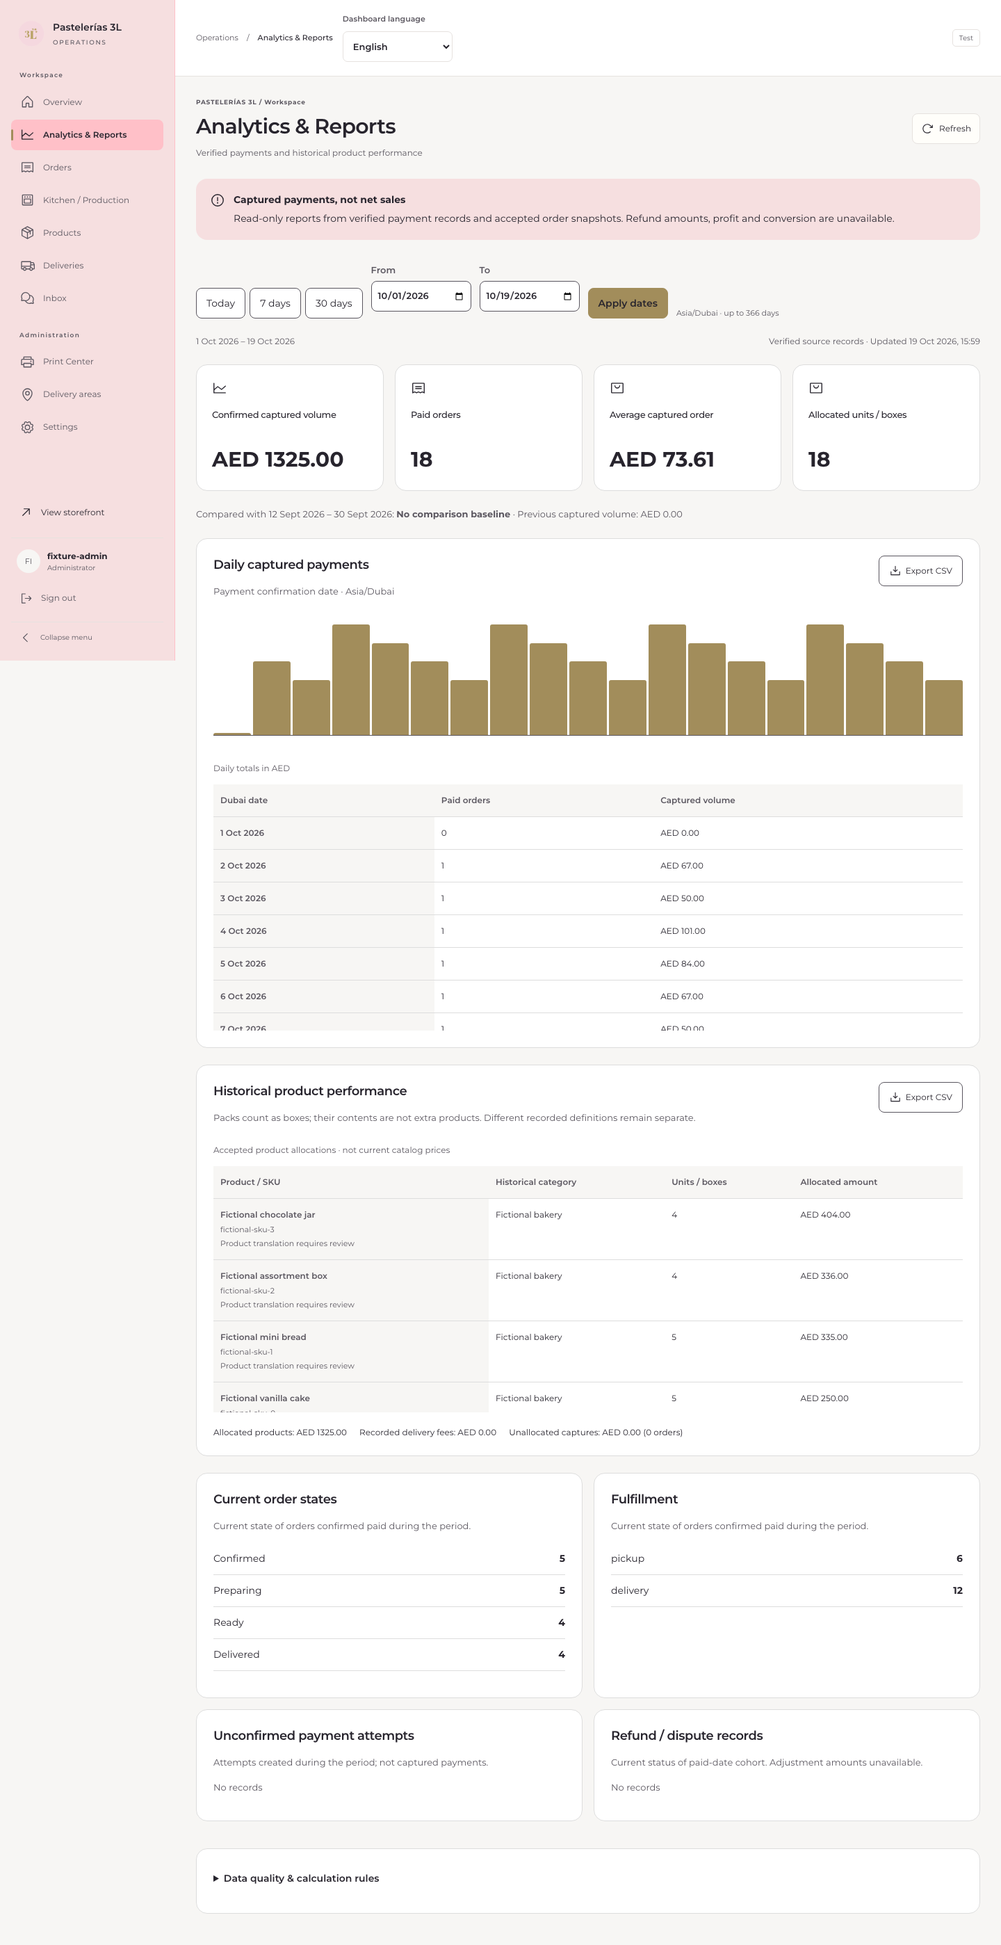
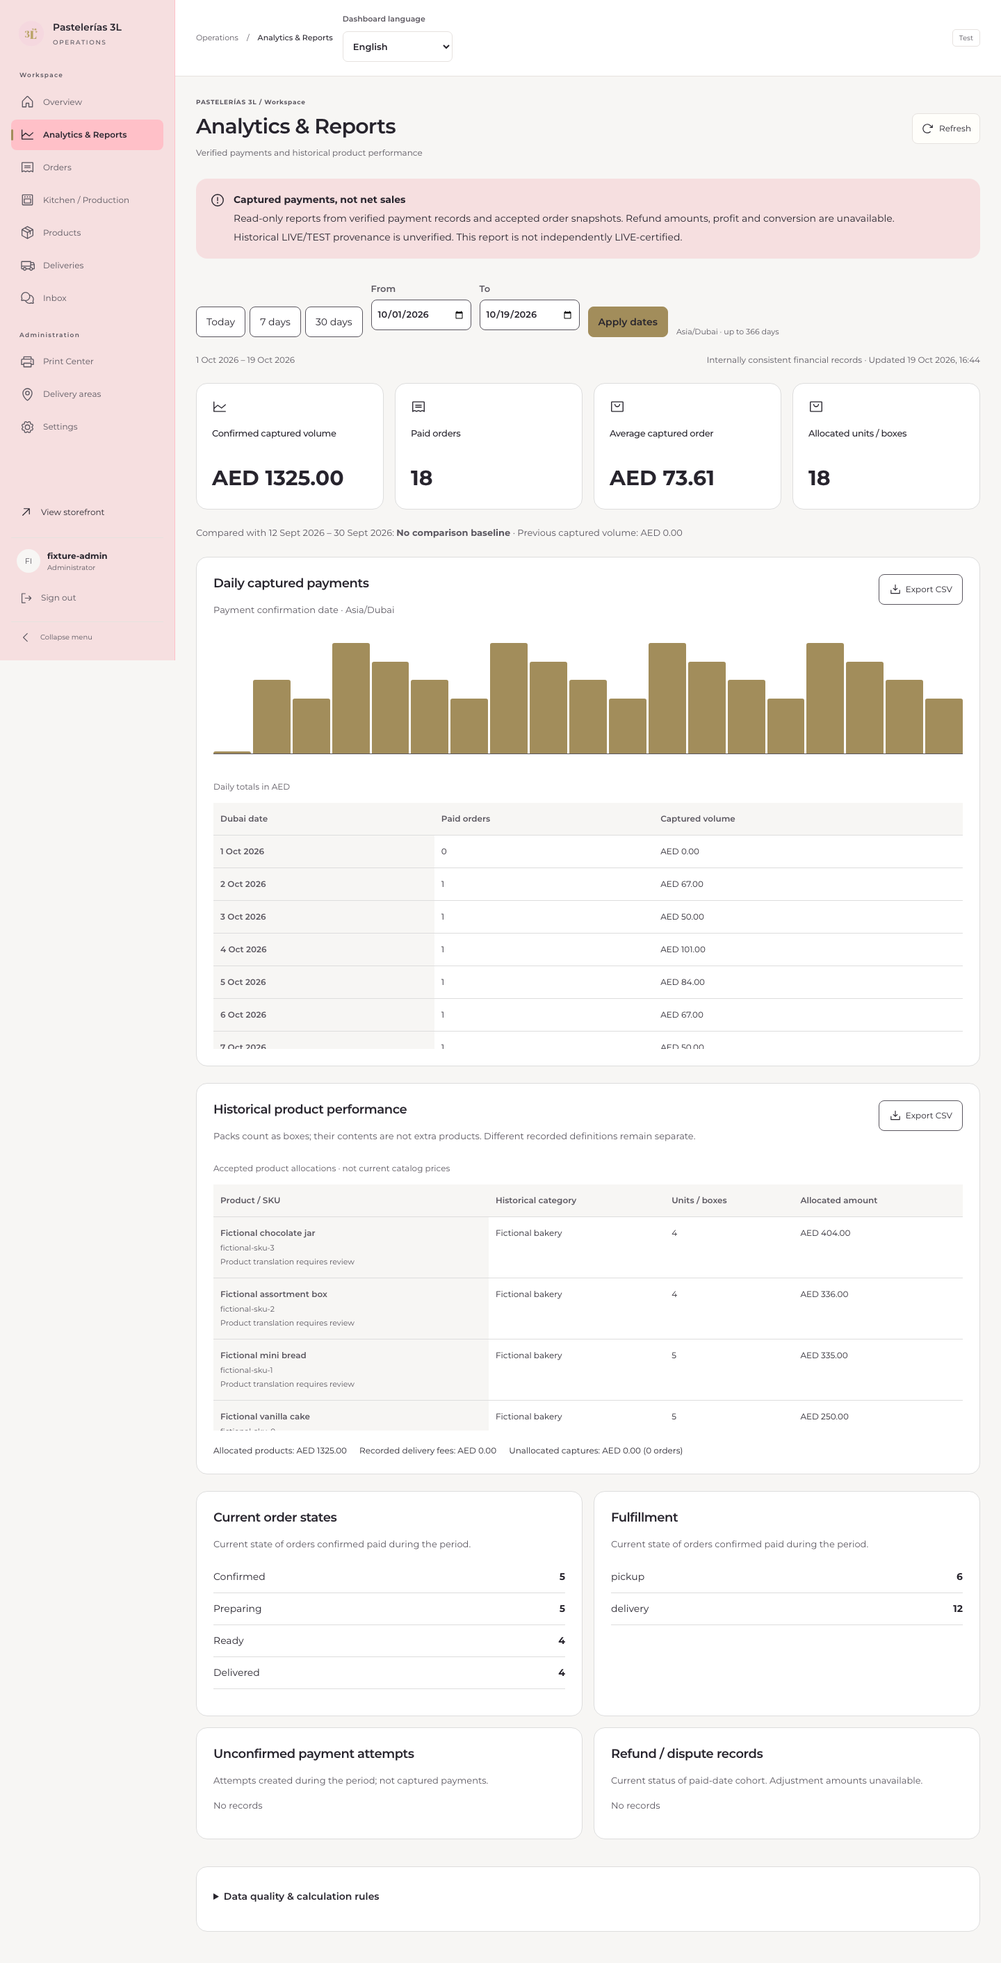
fix(analytics): separate financial consistency from unverified provenance

diff --git a/server/analytics/engine.ts b/server/analytics/engine.ts
@@ -144,10 +144,12 @@ export function calculateReport(
         100
       : null,
     issues: facts.issues,
+    qualityScope: "financial_consistency",
+    provenance: "unverified",
     quality:
       Object.values(facts.issues).some(Boolean) || current.unallocatedOrders > 0
         ? "partial"
-        : "reliable",
+        : "internally_consistent",
     limitations: [
       "Captured volume is not net sales, settlement or profit.",
       "Refund and dispute amounts, conversion, repeat customers and preparation duration are unavailable.",
@@ -168,7 +170,8 @@ export function reportCsv(
   };
   const quality = [
     report.quality,
-    "Gross confirmed captures, not net sales. Product allocations exclude inconsistent snapshots; see Analytics data-quality warnings.",
+    report.provenance,
+    "Gross confirmed captures, not net sales. Financial consistency does not independently certify LIVE origin; historical LIVE/TEST provenance is unverified. Product allocations exclude inconsistent snapshots.",
   ];
   const rows: unknown[][] =
     kind === "sales"
@@ -177,7 +180,8 @@ export function reportCsv(
             "Dubai date",
             "Paid orders",
             "Captured AED fils",
-            "Data quality",
+            "Financial consistency",
+            "LIVE/TEST provenance",
             "Scope note",
           ],
           ...report.current.daily.map((d) => [
@@ -194,7 +198,8 @@ export function reportCsv(
             "Historical category",
             "Purchased units / boxes",
             "Allocated AED fils",
-            "Data quality",
+            "Financial consistency",
+            "LIVE/TEST provenance",
             "Scope note",
           ],
           ...report.current.products.map((p) => [

diff --git a/tests/commerce/analytics.test.ts b/tests/commerce/analytics.test.ts
@@ -314,3 +314,36 @@ test("same SKU with changed historical definition remains separate; previous per
   assert.equal(r.changePercent, 100);
   assert.equal(r.previous.capturedFils, 5000);
 });
+
+test("internally consistent captures never imply independently certified LIVE provenance", () => {
+  const { s, payment } = fixture();
+  payment.url = "https://pay.paymennt.com/hosted/pay?checkoutKey=fictional";
+  const r = report(s);
+  assert.equal(r.current.capturedFils, 7000);
+  assert.equal(r.quality, "internally_consistent");
+  assert.equal(r.qualityScope, "financial_consistency");
+  assert.equal(r.provenance, "unverified");
+  assert.doesNotMatch(JSON.stringify(r), /"reliable"|live_certified/);
+});
+test("partial and empty financial reports retain explicit unverified provenance", () => {
+  const { s, order } = fixture();
+  delete order.catalogSnapshot;
+  const partial = report(s);
+  assert.equal(partial.quality, "partial");
+  assert.equal(partial.provenance, "unverified");
+  assert.equal(partial.current.unallocatedFils, 7000);
+  const empty = report(seed());
+  assert.equal(empty.quality, "internally_consistent");
+  assert.equal(empty.current.paidOrders, 0);
+  assert.equal(empty.provenance, "unverified");
+});
+test("both CSV exports distinguish financial consistency from historical provenance", () => {
+  const { s } = fixture();
+  for (const kind of ["sales", "products"] as const) {
+    const csv = reportCsv(report(s), kind);
+    assert.match(csv, /"Financial consistency","LIVE\/TEST provenance"/);
+    assert.match(csv, /"internally_consistent","unverified"/);
+    assert.match(csv, /not independently certify LIVE origin/);
+    assert.match(csv, /not net sales/);
+  }
+});

diff --git a/server/analytics/api.ts b/server/analytics/api.ts
@@ -78,6 +78,8 @@ export function serveAnalytics(
       range: report.range,
       daily: report.current.daily,
       quality: report.quality,
+      qualityScope: report.qualityScope,
+      provenance: report.provenance,
       issues: report.issues,
     });
   if (path.endsWith("/products"))
@@ -87,6 +89,8 @@ export function serveAnalytics(
       unallocatedOrders: report.current.unallocatedOrders,
       unallocatedFils: report.current.unallocatedFils,
       quality: report.quality,
+      qualityScope: report.qualityScope,
+      provenance: report.provenance,
     });
   if (path.endsWith("/operations"))
     return json({
@@ -95,6 +99,9 @@ export function serveAnalytics(
       fulfillment: report.current.fulfillment,
       attempts: report.current.attempts,
       adjustments: report.current.adjustments,
+      quality: report.quality,
+      qualityScope: report.qualityScope,
+      provenance: report.provenance,
     });
   return json(report);
 }

diff --git a/src/commerce/Analytics.tsx b/src/commerce/Analytics.tsx
@@ -116,6 +116,11 @@ export function AnalyticsWorkspace() {
               "Read-only reports from verified payment records and accepted order snapshots. Refund amounts, profit and conversion are unavailable.",
             )}
           </p>
+          <p>
+            {t(
+              "Historical LIVE/TEST provenance is unverified. This report is not independently LIVE-certified.",
+            )}
+          </p>
         </div>
       </div>
       <form
@@ -187,7 +192,7 @@ export function AnalyticsWorkspace() {
               {t(
                 report.quality === "partial"
                   ? "Partial data · review warnings"
-                  : "Verified source records",
+                  : "Internally consistent financial records",
               )}{" "}
               · {t("Updated")} {formatDate(report.generatedAt)}
             </span>

diff --git a/tests/commerce/analytics-http.test.ts b/tests/commerce/analytics-http.test.ts
@@ -77,6 +77,15 @@ test("real SQLite/API: auth, RBAC, aggregate privacy, bounded dates, CSV parity 
           assert.equal(res.headers.get("cache-control"), "no-store");
           if (allowed) {
             const text = await res.text();
+            if (p !== "session" && !p.startsWith("export")) {
+              const body = JSON.parse(text);
+              assert.equal(body.qualityScope, "financial_consistency");
+              assert.equal(body.provenance, "unverified");
+              assert.ok(
+                ["internally_consistent", "partial"].includes(body.quality),
+              );
+            }
+
             assert.doesNotMatch(
               text,
               /PRIVATE_CUSTOMER|private-fixture|customerDetails|fictional-checkout|providerReference|conversationId|payment-fictional/,

diff --git a/tests/analytics-e2e/analytics.spec.ts b/tests/analytics-e2e/analytics.spec.ts
@@ -68,6 +68,22 @@ for (const width of [320, 375, 390, 430, 768, 1440])
       await expect(
         page.locator(".an-kpis article").nth(1).locator("strong"),
       ).toHaveText("18");
+      await expect(
+        page.getByText(tr("Internally consistent financial records"), {
+          exact: false,
+        }),
+      ).toBeVisible();
+      await expect(
+        page.getByText(
+          tr(
+            "Historical LIVE/TEST provenance is unverified. This report is not independently LIVE-certified.",
+          ),
+          { exact: true },
+        ),
+      ).toBeVisible();
+      await expect(
+        page.getByText("Verified source records", { exact: true }),
+      ).toHaveCount(0);
       await expect(page.locator(".ops-shell")).toHaveAttribute(
         "lang",
         language,

diff --git a/server/analytics/contract.ts b/server/analytics/contract.ts
@@ -61,6 +61,10 @@ export type AnalyticsReport = {
   previous: PeriodReport;
   changePercent: number | null;
   issues: Record<string, number>;
-  quality: "reliable" | "partial";
+  /** Financial consistency only; never evidence of a payment's LIVE origin. */
+  qualityScope: "financial_consistency";
+  quality: "internally_consistent" | "partial";
+  /** The current historical model stores no explicit environment provenance. */
+  provenance: "unverified";
   limitations: string[];
 };

diff --git a/docs/analytics/production-reconciliation-plan.md b/docs/analytics/production-reconciliation-plan.md
@@ -1,0 +1,45 @@
+# Final review gate — Production reconciliation plan (NOT EXECUTED)
+
+No Production data, API, Railway environment, database, backup or provider has been accessed for this review. Founder authorization is still required for this procedure. Development readiness does not certify historical LIVE origin.
+
+## Definitions and acceptance boundary
+
+`qualityScope=financial_consistency` describes internal record completeness and reconciled arithmetic only. `quality=internally_consistent` means no source issues were detected by this engine; `partial` flags exclusions, fallback timestamps, unknown adjustments or allocation issues. Neither value independently certifies a capture as LIVE. `provenance=unverified` applies to every report from this historical model, including empty/otherwise consistent reports. Paymennt provider names, LIVE-looking URLs, reconciliation timestamps and the current runtime profile do not establish independent historical environment provenance. Mock/known TEST records remain excluded. CSV and visible UI carry both dimensions.
+
+## Authorization and input control
+
+1. Obtain separate founder authorization for a read-only Production reconciliation, identifying the exact date range, authorized operator and private result location. No provider reconciliation calls, status changes, outbound notifications, role changes, catalog publication, configuration or deployment.
+2. Record actual deployed revision from Railway deployment metadata, reporting-engine SHA and report schema, database identity/profile and published catalog revision as context only. Do not use the catalog to reconstruct history. Verify the approved reporting code is the code being compared; an undeployed local candidate must be labeled an isolated rehearsal.
+3. Choose a consistent input: preferably an existing, verified backup already under private owner custody, opened read-only. If none is available, request separate authorization for the established consistent-backup operation; do not improvise copying a live SQLite/WAL file. A direct audit alternative is an authorized SQLite read-only connection with `query_only=ON` and a read transaction that reads the serialized document once. Avoid `new Store(...)` on the live DB: its constructor initializes/migrates data.
+4. Run integrity_check on the authorized read-only source. Capture SHA-256 of the private snapshot/document, audit timestamp and source fingerprint; never publish the raw state, PII, checkout URLs or transaction IDs. Use one immutable input for independent calculations and the candidate engine. The live dashboard and an export generated later are not an identical point-in-time source if new payments arrive.
+
+## Independent ledger comparison
+
+The reviewer independently reads accepted orders and payment records from that fixed input, without calling the report's aggregation functions for the reference calculation. Retain identifiers privately only to investigate discrepancies. Public review evidence contains aggregated counts/fils only.
+
+- Collapse byte-equivalent duplicate payment IDs; quarantine conflicting IDs, duplicate order IDs, reused settled provider references and multiple settled attempts per order. Confirm one settled attempt plus unpaid retries counts one paid order.
+- Partition records into mutually exclusive primary dispositions using the adapter's documented filter order: known mock/TEST/unknown provider; missing/ambiguous association; non-settled attempt; missing verification/invalid AED amount; missing payment date; duplicate/reused settled capture; outside requested Dubai period; included and allocated; included and unallocated. Retain secondary reasons separately. Engine issue counters can overlap and are source-wide: their sum is NOT a unique excluded-payment count.
+- For each included capture verify Paymennt identity/reference, accepted amount/currency, recorded reconciliation evidence and first recorded paid timestamp. Payment status paid/refunded/partially_refunded/chargeback permits original gross capture only. No refund amount, settlement, net-sales or profit inference. Missing provenance remains unverified even when every amount matches.
+- Use Payment.paidAt, or the stored Order.paidAt fallback with warning. Do not substitute createdAt, updatedAt, delivery date or today's date. Explicitly account for missing dates outside period attribution. Test inclusive Dubai midnight boundaries and the immediately preceding equal-length period.
+- Independently validate each accepted financial snapshot: SKU uniqueness, quantity, base price and accepted premium price snapshot; subtotal = sum accepted line quantity × unit price; total = subtotal + accepted delivery fee = payment amount. Preserve distinct compositions and prices. Preparation components do not add sold units; purchased packs count as boxes. Tricolor colors/components are preparation details, not extra sales rows.
+- Missing/inconsistent snapshots retain the confirmed capture in gross totals but contribute to unallocated count/fils, never today's catalog prices. Unconfirmed/missing-proof records never inflate gross capture. Report excluded counts and safely stored declared amounts separately (not revenue); invalid amounts remain unquantified. Do not assign unknown-date exclusions to a guessed period.
+
+## Required reconciliation equations / evidence
+
+For selected and prior periods, compare exact integer fils and distinct identities, with ZERO unexplained difference:
+
+- Gross captured fils = sum unique eligible capture amounts.
+- Paid order count = distinct eligible order identities (not attempt count).
+- Gross captured fils = allocated product fils + accepted delivery-fee fils + unallocated capture fils.
+- Sum daily paid counts/amounts = period paid count/amount; sum SKU allocated amounts = product allocated total.
+- Allocated units = sum purchased line quantities; pack components never contribute additional units.
+- Average = round(gross captured fils / eligible paid orders), null if no orders. Zero comparison denominator remains unavailable.
+- CSV date rows/product allocations match the same fixed-input report and filter, including financial-consistency and unverified-provenance columns.
+
+Record input fingerprint, engine SHA, range/timezone, included/excluded/unallocated counts and fils, reason matrix, missing timestamp counts, refund/dispute counts with unavailable amounts, classification/translation gaps, and before/after historical-state fingerprints. The procedure performs no write; an unexpected changed source fingerprint requires a new fixed-input comparison, never a historical correction.
+
+## Stop / approval gates
+
+STOP on integrity failure, inconsistent input identity, unexpected writes/provider calls, unaccounted duplicates, arithmetic difference, raw customer data exposure or use of mutable catalog prices. Excluded and unallocated records must be explicitly reviewed; do not call a partial total complete revenue. Do not claim independent LIVE certification without a separately approved authoritative provenance source. Founder decides whether the disclosed unknown historical provenance is acceptable for operational use; that decision does not turn unknown provenance into verified LIVE.
+
+Remaining release gates: founder code/wording approval; explicit read-only reconciliation authorization and successful aggregate comparison; native EN/TL operational-language review; acceptance of exclusions/unallocated records and unavailable metrics; separate merge and deployment authorization with established backup/rollback gates. No payment/status change or commercial publication is part of any analytics reconciliation.

diff --git a/docs/analytics/README.md b/docs/analytics/README.md
@@ -22,7 +22,7 @@ These are entirely fictional fixtures on a local TEST server. They do not repres
 ## Local QA
 
 - `npm run typecheck`, `npm run lint`, `npm run build`: pass. Existing Vite bundle-size and pending business-information notices remain; no new dependencies.
-- `npm test`: **681/681** commerce/domain/HTTP/integration tests pass, including 14 new analytics tests. Existing catalog, premium-pack, Tricolor, immutable order and notification regressions remain in the suite.
+- `npm test`: **684/684** commerce/domain/HTTP/integration tests pass, including 17 analytics tests. Existing catalog, premium-pack, Tricolor, immutable order and notification regressions remain in the suite.
 - Browser login runs through ephemeral localhost TLS, preserving Production `Secure` cookie policy. Initial Linux WebKit CI exposed an HTTP-only fixture mismatch; the fixture now uses HTTPS, without weakening application security or tests.
 - Analytics unit/HTTP tests: accepted historical prices, fees, multiple lines, boxes vs components, premium/Tricolor preparation, missing/inconsistent snapshots, refunds/partial refunds/chargebacks with unavailable amounts, pending/authorized/failed/cancelled, duplicates and ambiguous captures, Dubai midnight, malformed dates, period comparison/zero baseline, safe integer overflow, formula-safe CSV, privacy, real cookie RBAC and SQLite byte equality.
 - Large synthetic ledger: **12,000** orders/payments with deterministic totals, tested against a 5-second ceiling (local execution around 0.1 seconds). No Production performance claim.
@@ -39,3 +39,7 @@ These are entirely fictional fixtures on a local TEST server. They do not repres
 GO for code review, conditional on final CI checks. No Production merge/deploy is included. Review the dictionary and unavailable financial metrics before operational adoption. A separately authorized live reconciliation sample should precede financial reliance. Native review of new Tagalog labels remains advisable.
 
 No commercial catalog, price, payment flow, provider configuration, customer/order/history, Production SQLite, Railway, email or WhatsApp change. No schema migration, tracking, event instrumentation, AI conclusions or dependency added. Rollback is code-only, never restoring the business database.
+
+## Final review follow-up
+
+Financial consistency and historical provenance are now separate API/CSV dimensions. `internally_consistent` replaces `reliable`; no UI badge says “Verified source records”. The unverified LIVE/TEST warning is always visible, including clean and empty reports. Targeted regressions cover these states and all aggregate API projections. [Production reconciliation plan and exact authorization gates](production-reconciliation-plan.md) — prepared only, not executed. New EN/TL wording and existing historical-name/category translation warnings require operational review. No authorization can substitute for missing historical provenance evidence.

diff --git a/docs/analytics/metrics-dictionary.md b/docs/analytics/metrics-dictionary.md
@@ -20,3 +20,7 @@ All money is integer AED fils. Calendar days are Asia/Dubai (UTC+04:00), inclusi
 `CommerceService.applyCheckout` validates provider reference, request, order, amount and currency before writing `lastReconciledAt`, `paidAt` and the state. `paidAt` is local receipt time, not bank settlement time. Older webhook records can lack this evidence. Reporting deliberately does not promote payment status alone into verified revenue. There is no refund amount ledger, branch/tenant attribution, explicit payment environment marker or order creation field. Mock providers and known test-hosted URLs are excluded; unknown historical environment is disclosed, not claimed LIVE-verified. Runtime profile isolates test databases but cannot prove provenance of every old row.
 
 Reporting does not call reconciliation, providers, commands, notifications or Store.write. It reads one consistent serialized SQLite state snapshot via Store.read. Source data remains immutable. Duplicate and missing records cause visible data-quality counts. No customer identity, address, notes, transaction IDs or checkout URLs leave the adapter. Product text is historical merchant-authored identification; CSV is escaped and formula-safe.
+
+## Financial consistency versus provenance (final review)
+
+The pre-release `reliable` enum and “Verified source records” badge have been removed. Responses expose `qualityScope=financial_consistency`, `quality=internally_consistent|partial` and a separate `provenance=unverified`. A clean internal ledger, a LIVE-looking URL or an empty period never certifies historical LIVE origin. This limitation appears prominently, in both CSV exports and in every aggregate API projection. Exact gross captures remain distinct from net sales/profit; refund amounts remain unavailable. See [the separately authorized reconciliation plan](production-reconciliation-plan.md).

diff --git a/docs/analytics/security-and-release.md b/docs/analytics/security-and-release.md
@@ -21,3 +21,9 @@ Refund/dispute counts are current statuses within the original paid-date cohort,
 4. Rollback code to previous healthy commit; no DB restore and no data rewrite. Reports are computed on demand, so rollback loses no orders or financial facts. Never undo commercial publications or restore SQLite to reverse an analytics UI release.
 
 No merge, deployment or Production operation is authorized in this sprint.
+
+## Remaining final review gates
+
+Technical consistency is not provenance: the API’s `internally_consistent` status has scope `financial_consistency` and always carries historical `provenance=unverified`. Neither a Production runtime nor a LIVE-looking URL upgrades that status. The dashboard and exports explicitly disclose this. Native review is still needed for the two new EN/TL statements and earlier Tagalog reporting labels. Unknown historical SKU definitions retain their original identification with the existing translation-review warning; historical category names remain as stored. Founder-approved exact-definition translations are a separate presentation approval, never a historical financial rewrite.
+
+Founder decisions: approve the revised financial/provenance wording; accept the disclosed limitations for operational reporting or require additional independent evidence; authorize the precise read-only reconciliation scope described in [the plan](production-reconciliation-plan.md); separately authorize merge and deployment after reconciliation. No business decision converts unknown provenance into LIVE evidence. No price, refund, payment-state or catalog decision is required to implement this review fix.
